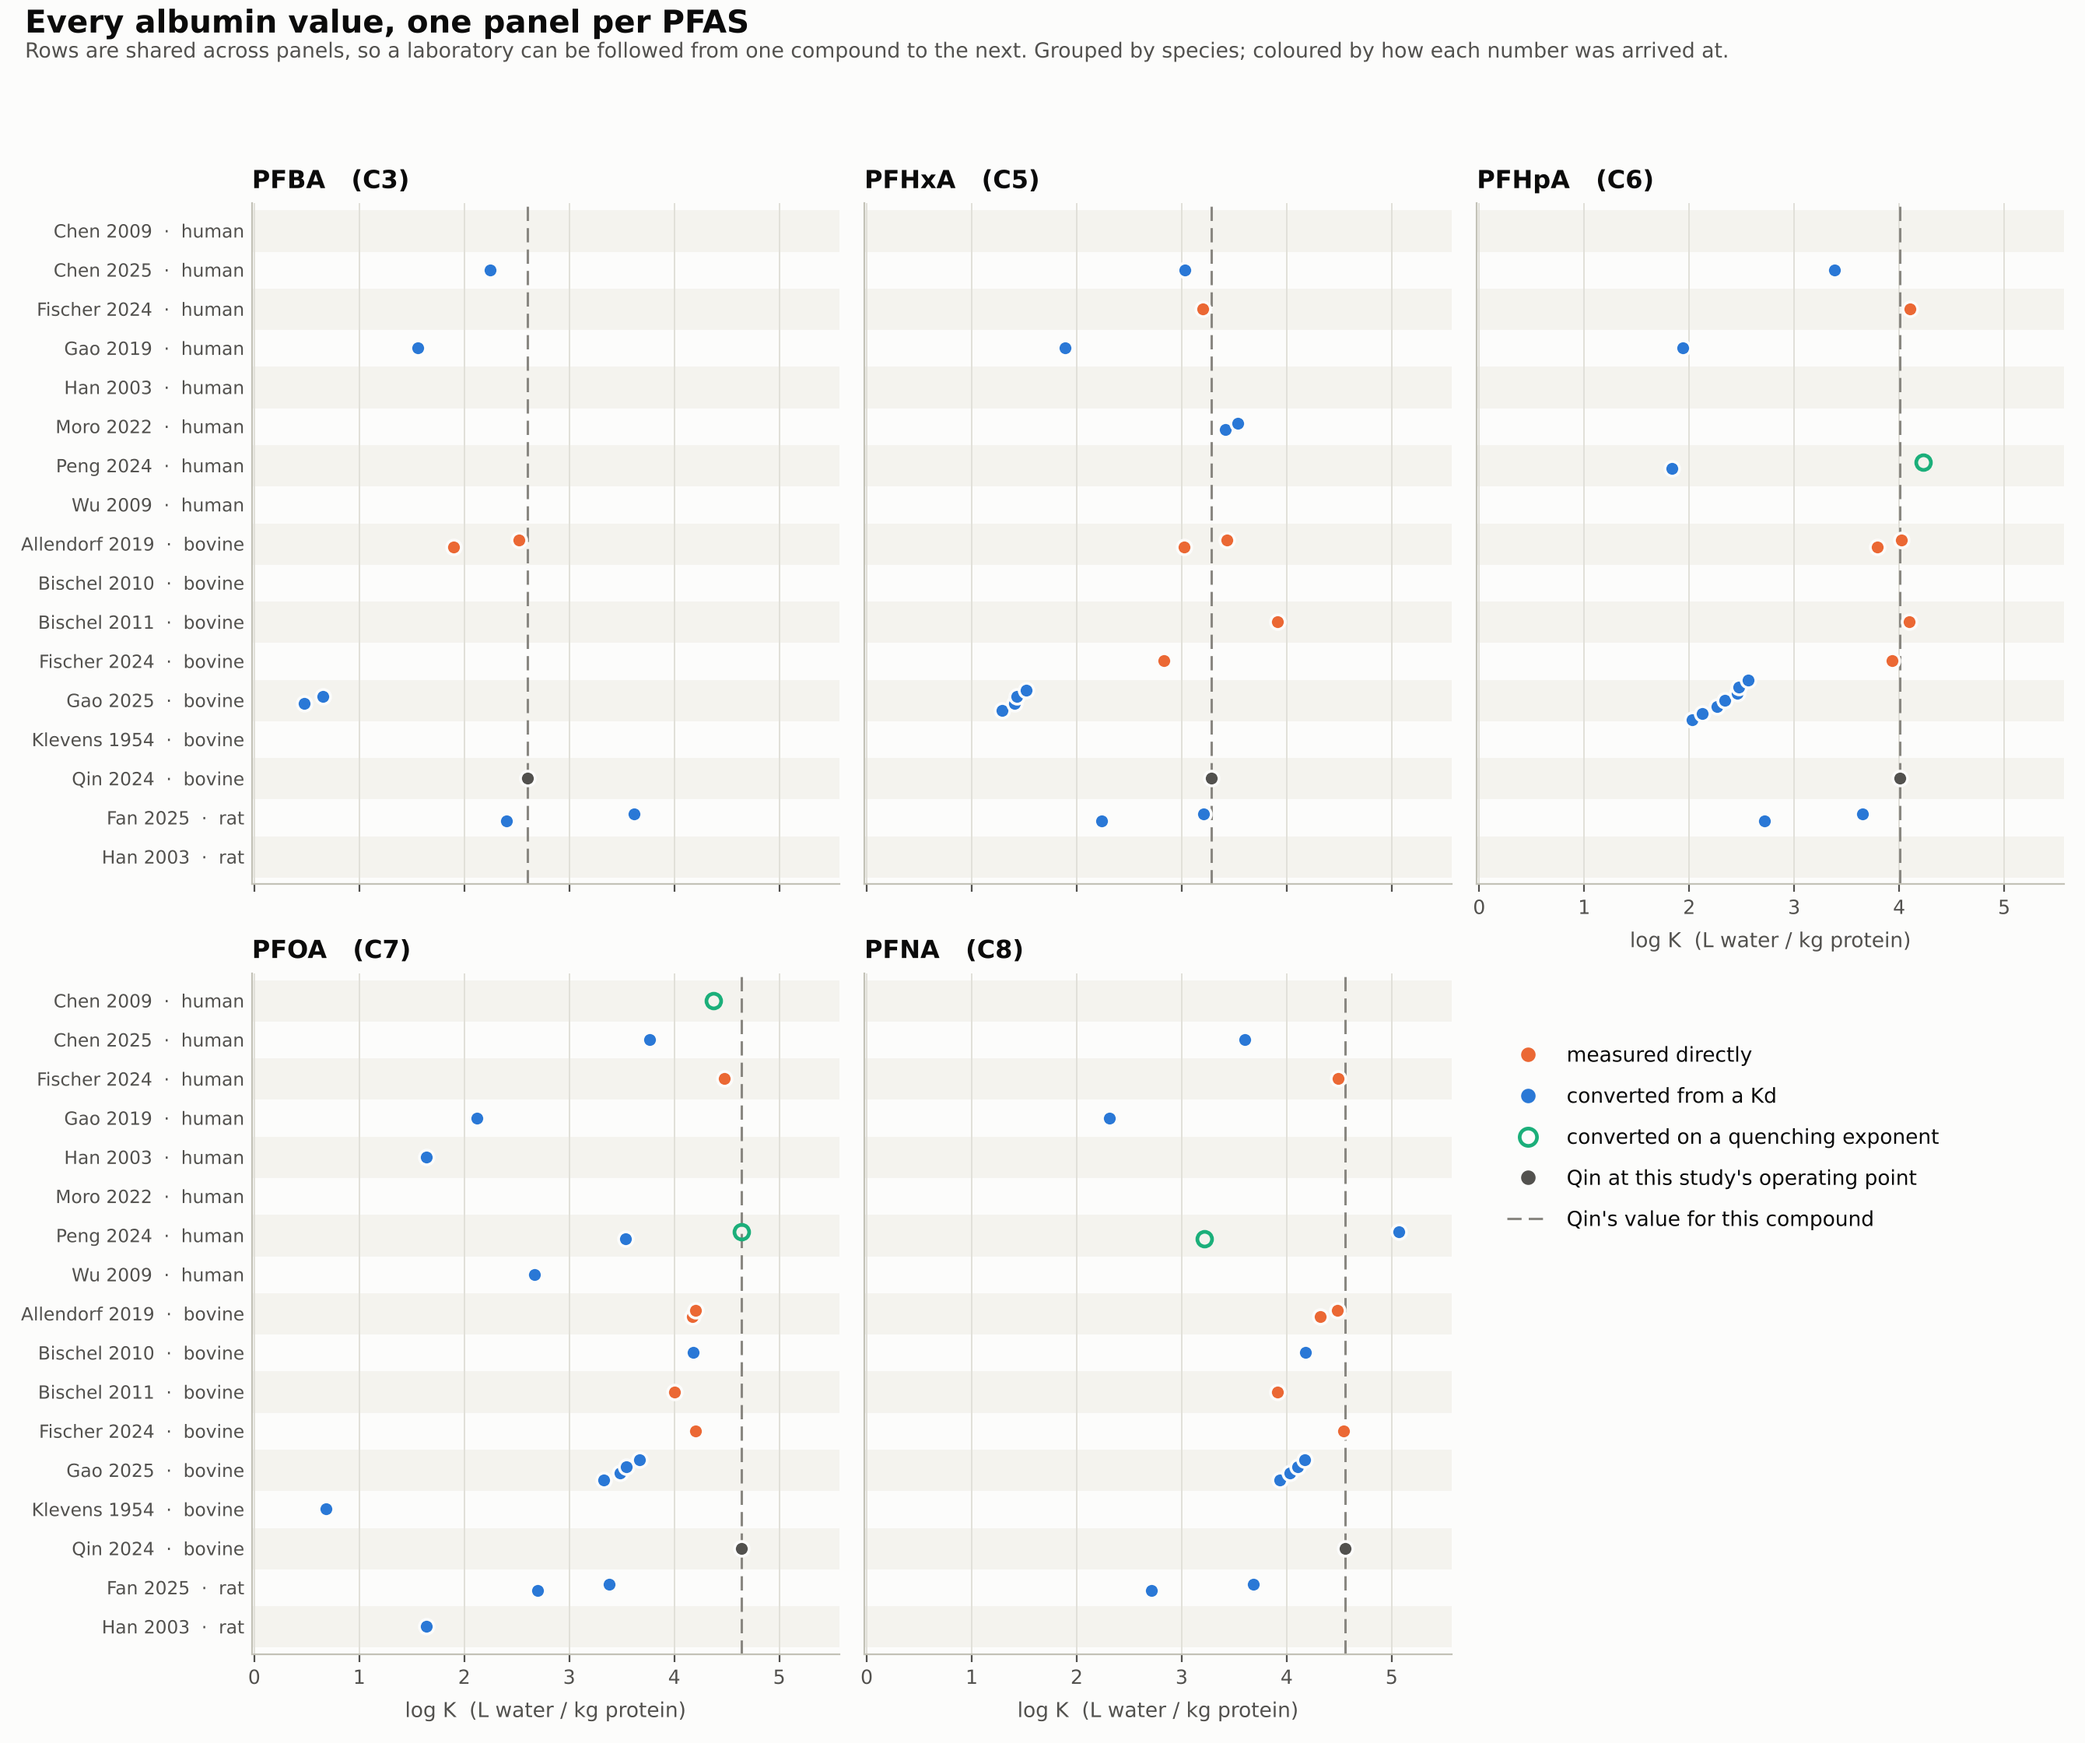
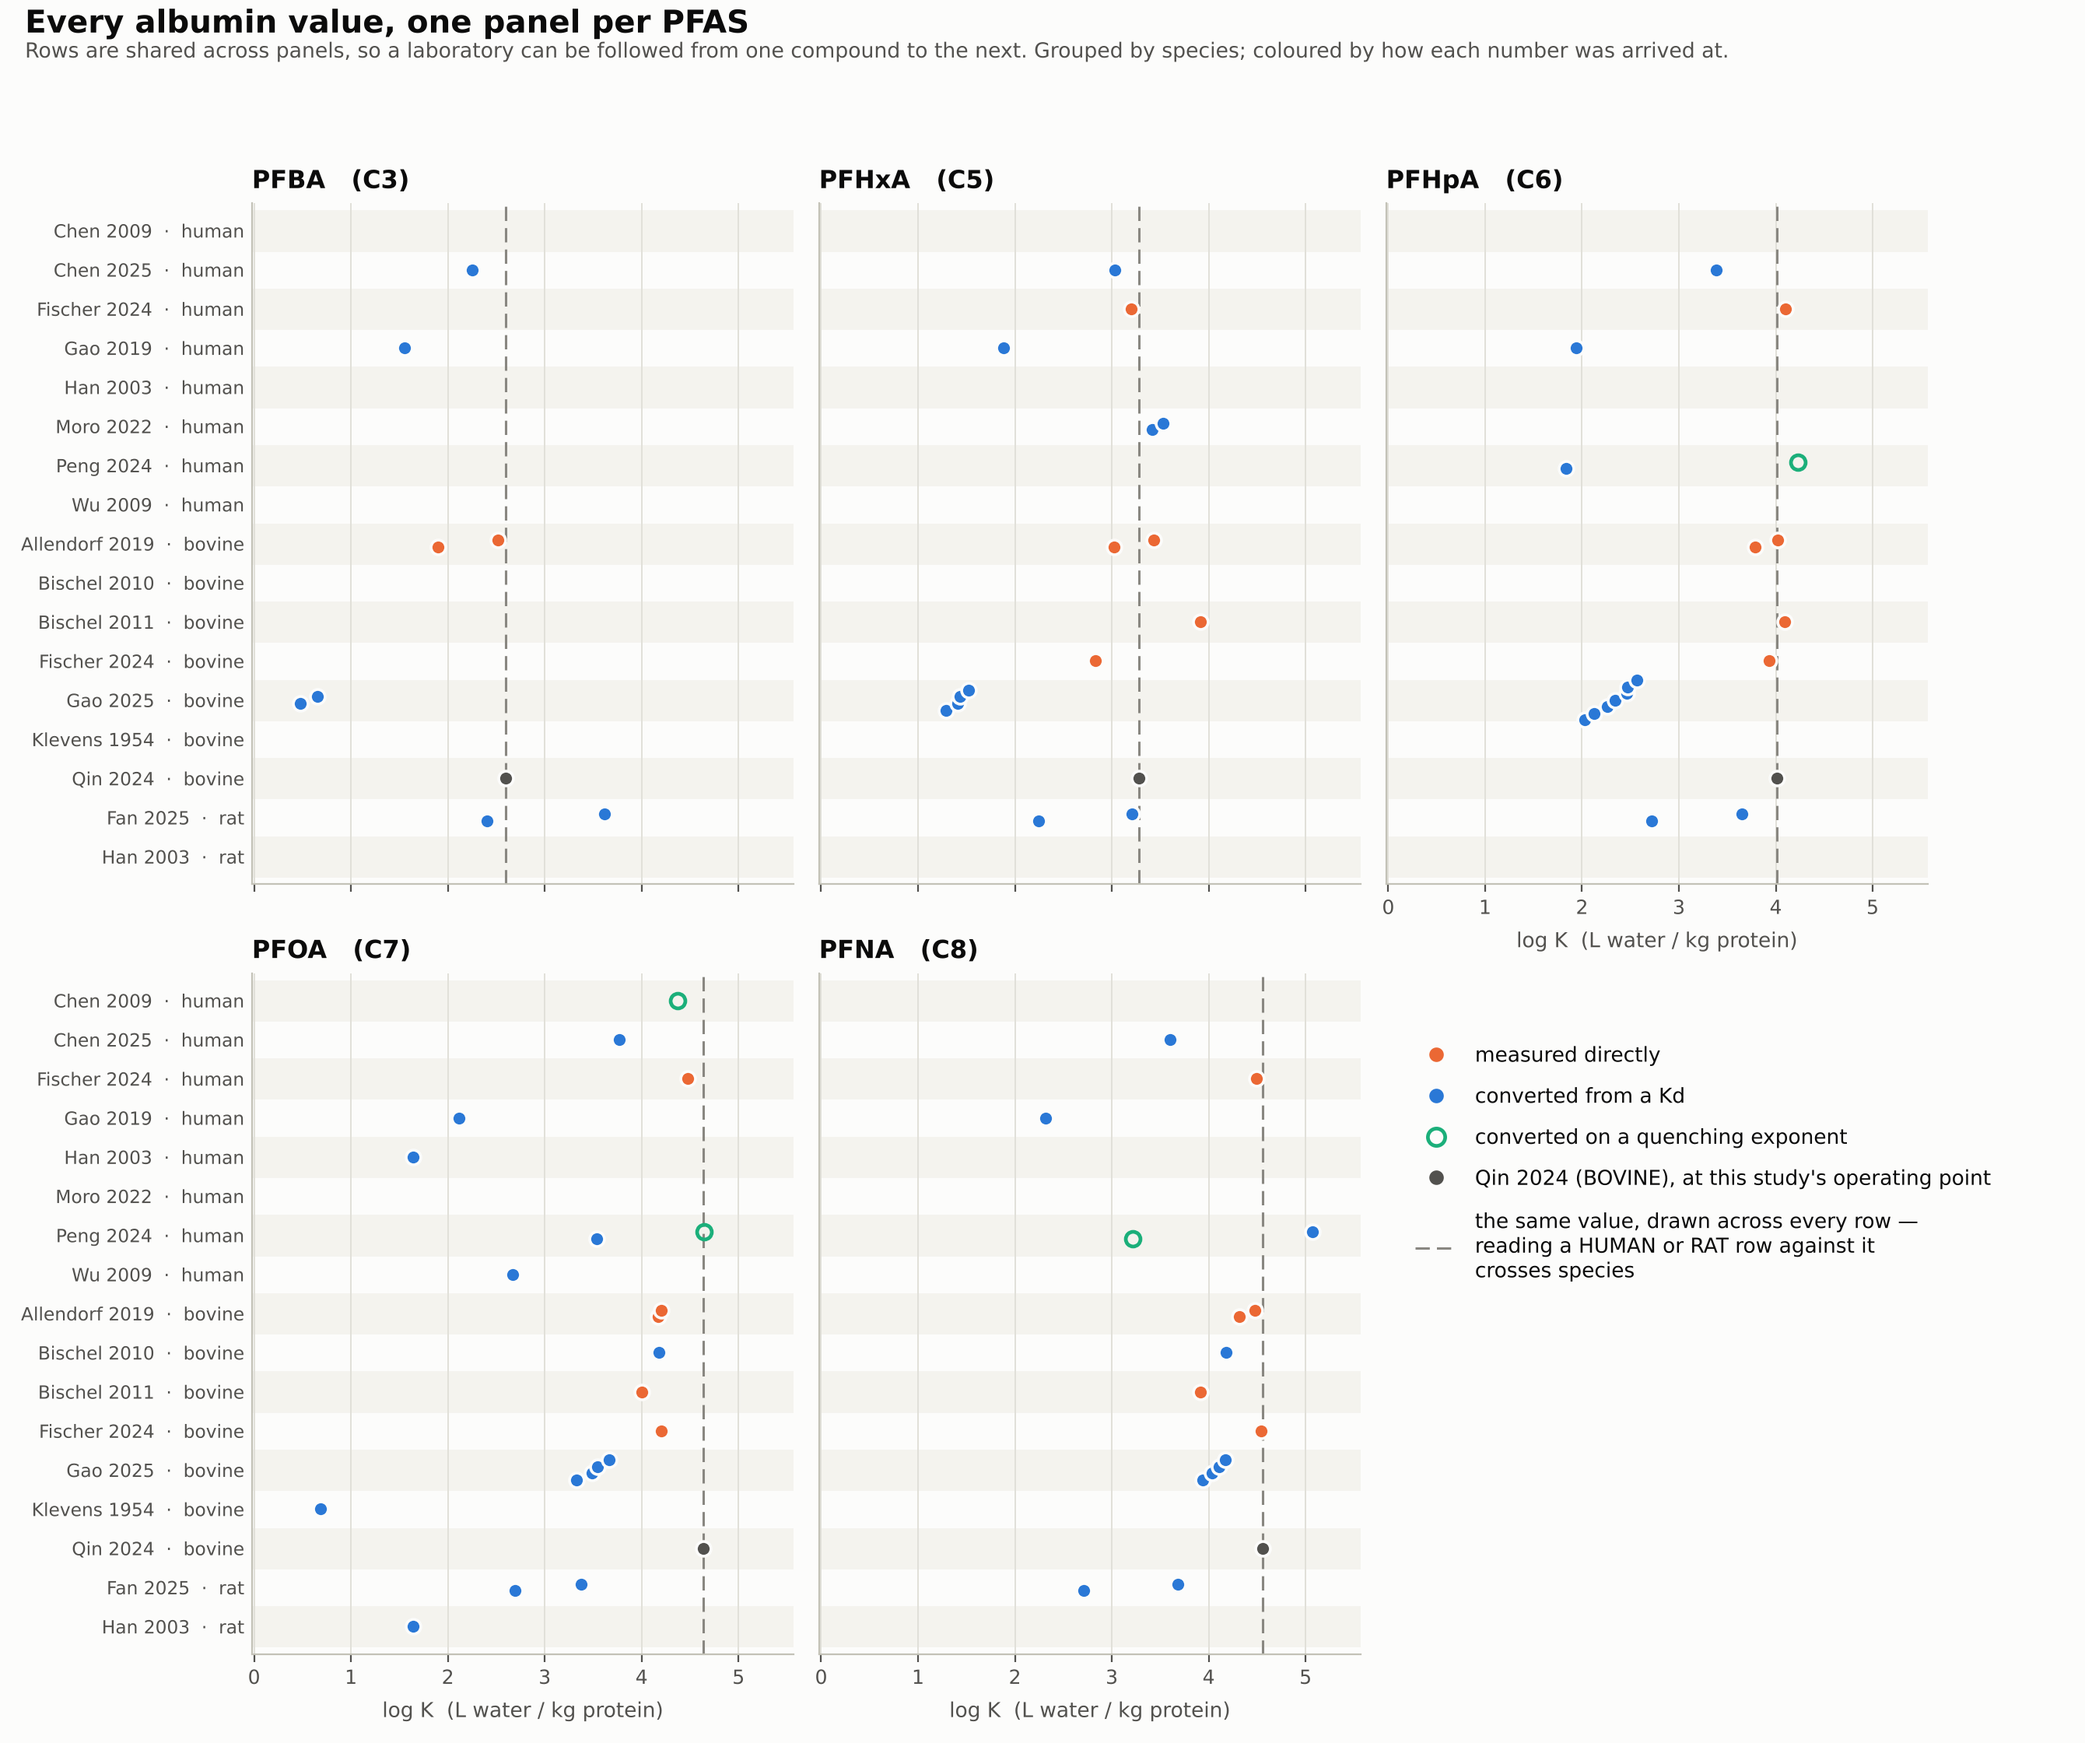
Say on the figure that Qin's line is bovine and crosses species
Rows are grouped into contiguous species blocks and each label carries
its species, so every laboratory-to-laboratory comparison on this plot
stays inside one protein. The Qin dashed line was the one exception:
Qin's five values are all bovine and the line is drawn across the human
and rat rows too, so measuring a human row against it crosses species
with nothing on the figure saying so.

Both legend entries now carry it. The dot reads "Qin 2024 (BOVINE), at
this study's operating point" and the line reads "the same value, drawn
across every row - reading a HUMAN or RAT row against it crosses
species". The docstring says the same thing and explains why the dot
and the line are both there: they are the same number, the dot keeping
Qin in the stack as one laboratory among many, the line letting every
other row's distance from it be read without tracing down the panel.

Claude-Session: https://claude.ai/code/session_01KWGaE5eHaWPnoHpTeKGRB5

diff --git a/tk_review/scripts/plot_albumin_by_compound.py b/tk_review/scripts/plot_albumin_by_compound.py
@@ -18,6 +18,15 @@ pooling them into one cloud.
 Qin is both a row and a dashed line, since it is the value being
 compared against: the line is its number for that compound, so the
 distance from any dot to the line is what the comparison is worth.
+The dot and the line are the SAME NUMBER -- the dot keeps Qin in the
+stack as one laboratory among many, the line lets every other row's
+distance from it be read without tracing down the panel.
+
+QIN'S VALUES ARE ALL BOVINE, and the line is drawn across the human
+and rat rows too. That is the one place this figure crosses species,
+so the legend says so. Grouping the rows by species keeps every other
+comparison within one protein; the line is the exception and is
+labelled as one.
 
 EDIT `COMPOUNDS` to change which panels appear. Anything in the CSV
 works; the default five are the ones under active comparison. The
@@ -44,7 +53,8 @@ STYLE = {
     "measured":  ("#eb6834", "full", "measured directly"),
     "converted": ("#2a78d6", "full", "converted from a Kd"),
     "quenching": ("#1baf7a", "none", "converted on a quenching exponent"),
-    "qin":       ("#52514e", "full", "Qin at this study's operating point"),
+    "qin":       ("#52514e", "full",
+                  "Qin 2024 (BOVINE), at this study's operating point"),
 }
 SURFACE, INK, INK2, MUTED = "#fcfcfb", "#0b0b0b", "#52514e", "#898781"
 GRID, AXIS, BAND = "#e1e0d9", "#c3c2b7", "#f4f3ee"
@@ -152,7 +162,9 @@ def plot(rows=None, save=PNG):
                mew=1.3 if fill == "full" else 1.7, label=lab)
         for col, fill, lab in STYLE.values()
     ] + [Line2D([], [], color=MUTED, lw=1.1, ls=(0, (6, 3)),
-                label="Qin's value for this compound")]
+                label="the same value, drawn across every row —\n"
+                      "reading a HUMAN or RAT row against it\n"
+                      "crosses species")]
     flat[len(order)].legend(handles=handles, loc="upper left",
                             frameon=False, fontsize=9.5,
                             handletextpad=0.9, labelspacing=1.0,
